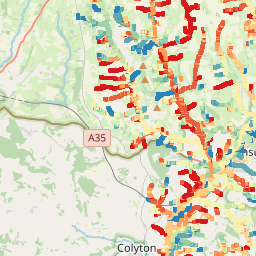
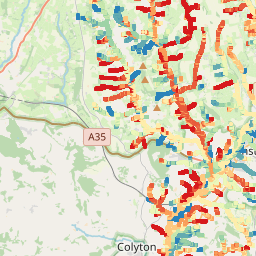
extend coverage of lv11 on in stream risk concn

diff --git a/webMapping/index.html b/webMapping/index.html
@@ -4,17 +4,9 @@
     <title>SCIMAP Sediment for River Axe</title>
     <meta charset="utf-8" />
     <meta name="viewport" content="width=device-width, initial-scale=1.0">
-<!--
-    <link rel="stylesheet" href="https://unpkg.com/leaflet@1.5.1/dist/leaflet.css"
-          integrity="sha512-xwE/Az9zrjBIphAcBb3F6JVqxf46+CDLwfLMHloNu6KEQCAWi6HcDUbeOfBIptF7tcCzusKFjFw2yuvEpDL9wQ=="
-          crossorigin=""/>
-    <script src="https://unpkg.com/leaflet@1.5.1/dist/leaflet.js"
-            integrity="sha512-GffPMF3RvMeYyc1LWMHtK8EbPv0iNZ8/oTtHPx9/cc2ILxQ+u905qIwdpULaqDkyBKgOaB57QTMg7ztg8Jm2Og=="
-            crossorigin=""></script> -->
 
     <link rel="stylesheet" href="https://unpkg.com/leaflet@1.9.4/dist/leaflet.css" />
     <script src="https://unpkg.com/leaflet@1.9.4/dist/leaflet.js"></script>
-
 
     <style type="text/css">
         body {
@@ -67,7 +59,7 @@
 <h1>SCIMAP Sediment Standard for the River Axe</h1>
 <div id="map"></div>
 <script>
-    var map = L.map('map').setView([50.82336, -2.94429], 12.0);
+    var map = L.map('map').setView([50.82336, -2.94429], 11);
 
     map1 = L.tileLayer('https://simreaney.github.io/EA-Axe/webMapping/top10pcent/{z}/{x}/{y}.png', {
         minZoom: 8,
@@ -112,12 +104,12 @@
 
     //legend
     function getColor(d) {
-        return d > 1.0 ? '#d7191c' :
-            d > 0.8 ? '#fdae61' :
-                d > 0.6 ? '#ffffbf' :
-                    d > 0.4 ? '#abdda4' :
-                        d > 0.2 ? '#2b83ba' :
-                            '#2b83ba';
+        return d > 1.0 ? '#ebffff' :
+            d > 0.75 ? '#eb0000' :
+            d > 0.5 ? '#ffa94f' :
+            d > 0.25 ? '#ffffb7' :
+            d > 0.00 ? '#9ddf9e' :
+            '#0085bf';
     }
 
     map.addLayer(map4);
@@ -125,7 +117,7 @@
 
     legend.onAdd = function (map) {
         var div = L.DomUtil.create('div', 'info legend'),
-            grades = [0, 0.2, 0.4, 0.6, 0.8, 1.0],
+            grades = [0, 0.25, 0.5, 0.75, 1.0],
             labels = [];
 
         for (var i = 0; i < grades.length; i++) {
